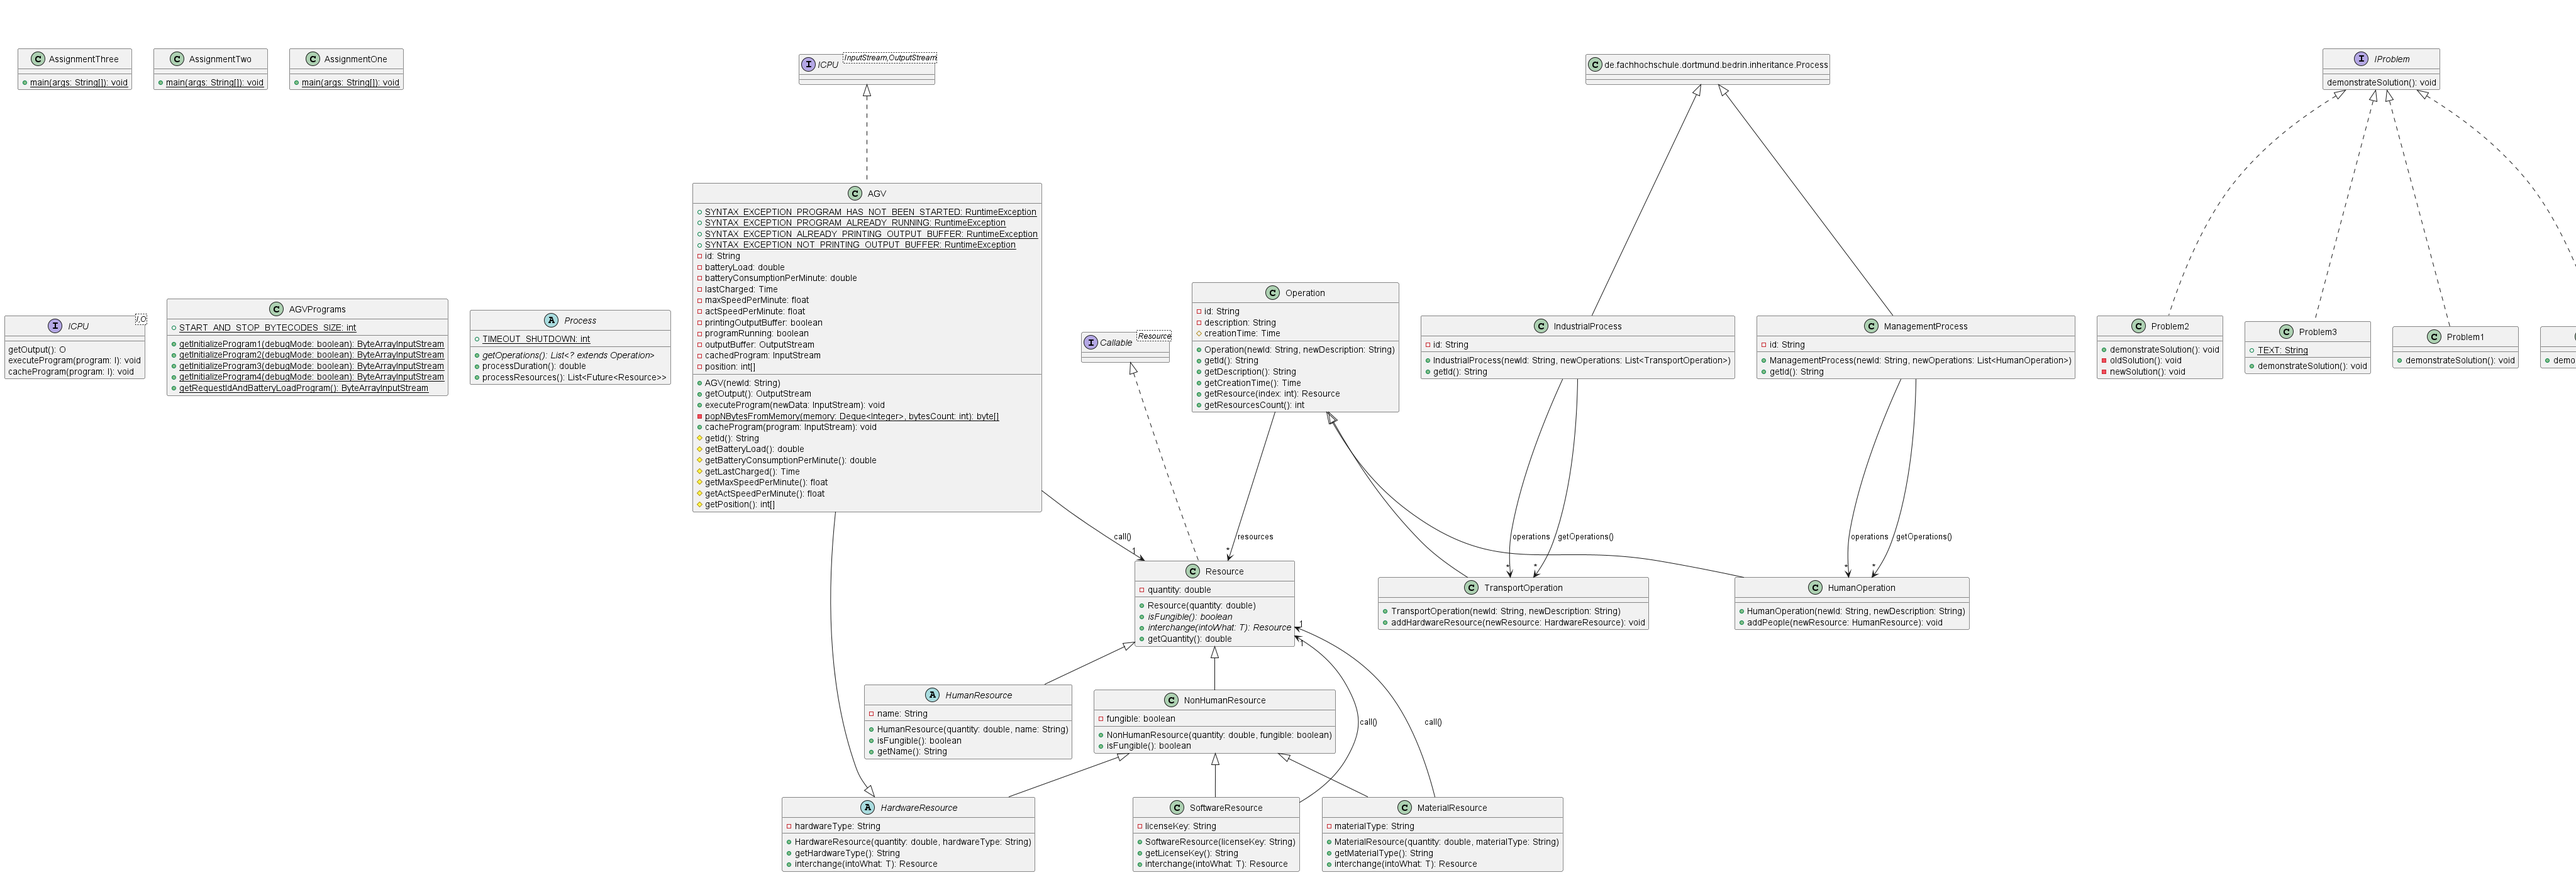
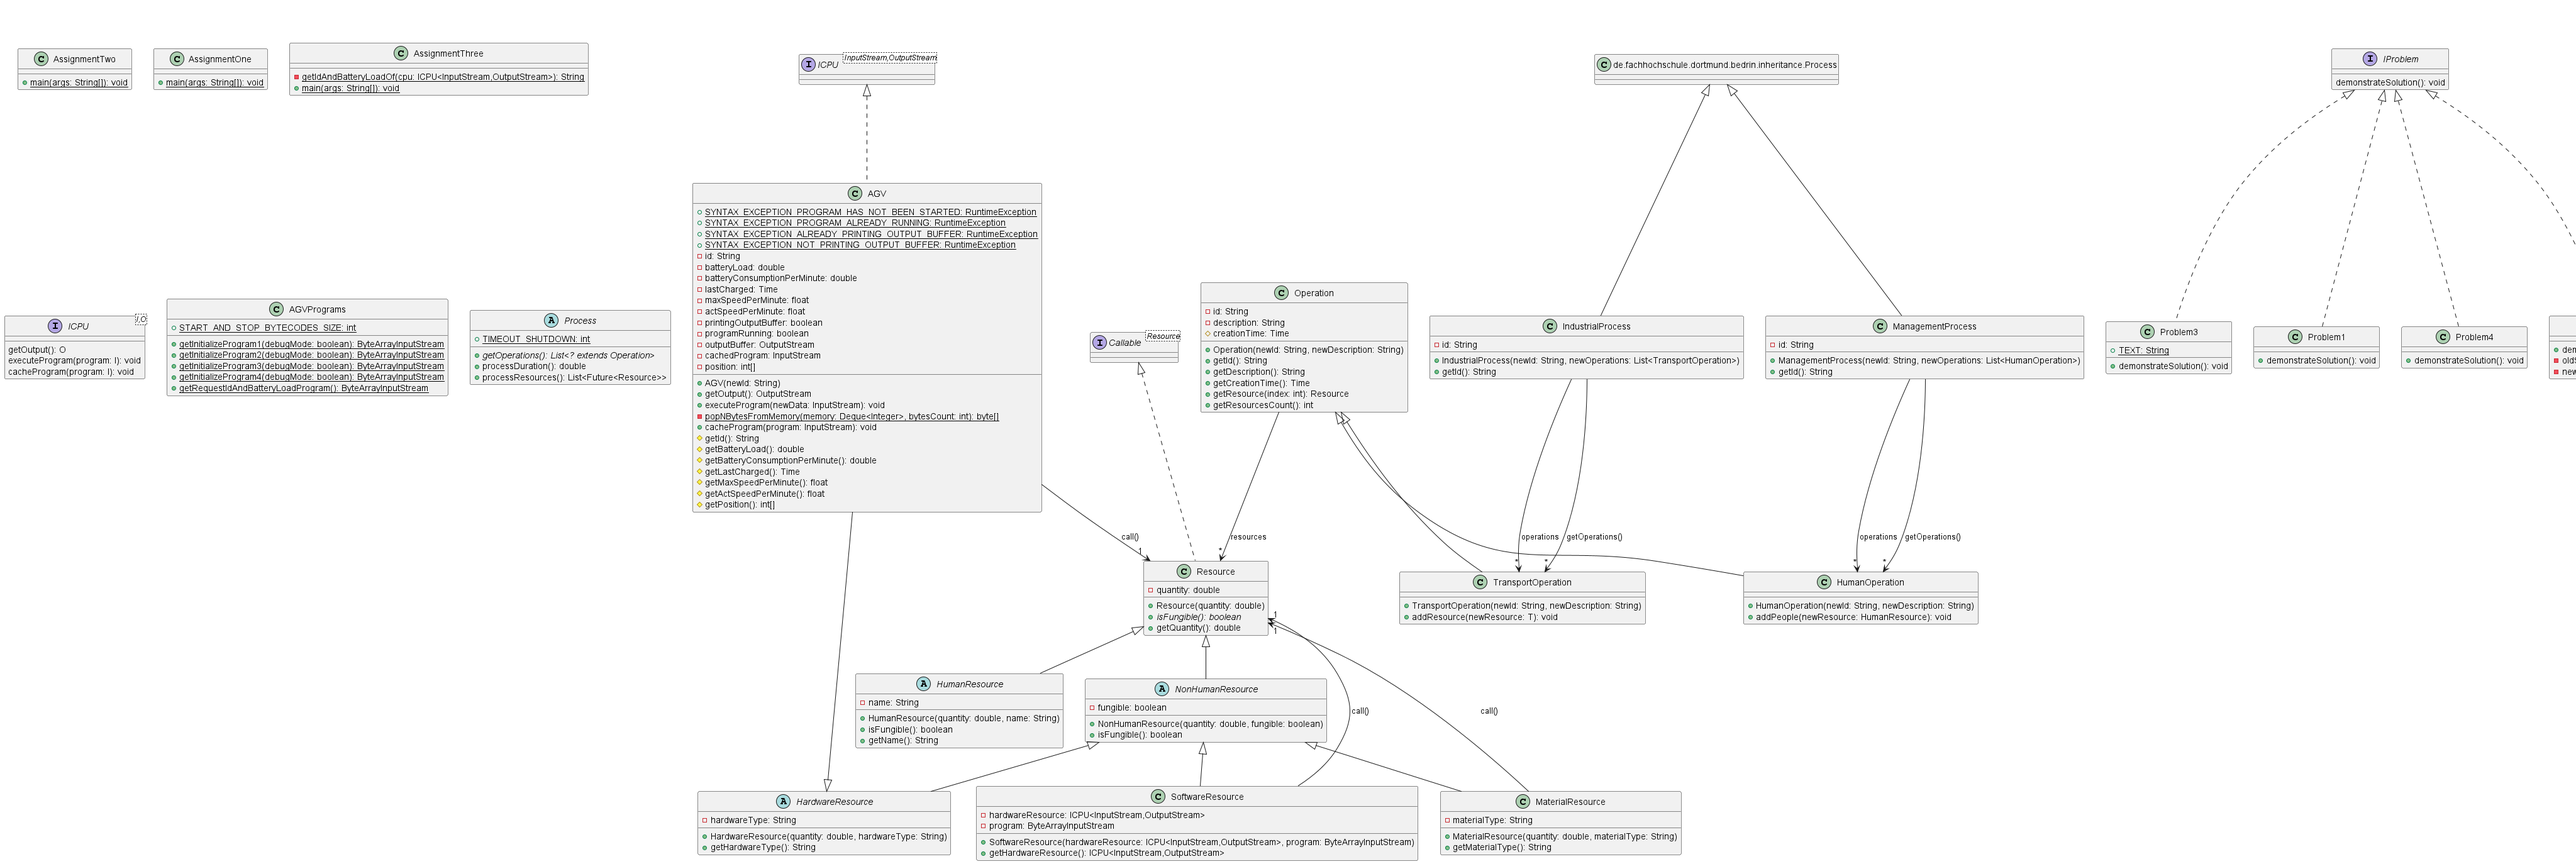
Adding usage to a SoftwareResource

diff --git a/bedrin/src/main/java/de/fachhochschule/dortmund/bedrin/AssignmentThree.java b/bedrin/src/main/java/de/fachhochschule/dortmund/bedrin/AssignmentThree.java
@@ -6,7 +6,6 @@ import java.io.OutputStream;
 import java.nio.ByteBuffer;
 import java.util.Arrays;
 import java.util.List;
-import java.util.concurrent.Future;
 
 import de.fachhochschule.dortmund.bedrin.facility.AGV;
 import de.fachhochschule.dortmund.bedrin.facility.IndustrialProcess;
@@ -14,52 +13,74 @@ import de.fachhochschule.dortmund.bedrin.facility.interfaces.ICPU;
 import de.fachhochschule.dortmund.bedrin.facility.utils.AGVPrograms;
 import de.fachhochschule.dortmund.bedrin.inheritance.Resource;
 import de.fachhochschule.dortmund.bedrin.inheritance.new_operations.TransportOperation;
+import de.fachhochschule.dortmund.bedrin.inheritance.new_resources.SoftwareResource;
 import de.fachhochschule.dortmund.bedrin.inheritance.new_resources.base.HardwareResource;
 
 public class AssignmentThree {
+	private static String getIdAndBatteryLoadOf(ICPU<InputStream, OutputStream> cpu) {
+		cpu.executeProgram(AGVPrograms.getRequestIdAndBatteryLoadProgram());
+		byte[] requestInfoProgramRawOutput = ((ByteArrayOutputStream) cpu.getOutput()).toByteArray();
+		ByteBuffer requestInfoProgramOutputBuffer = ByteBuffer.allocate(requestInfoProgramRawOutput.length);
+		requestInfoProgramOutputBuffer.put(requestInfoProgramRawOutput);
+		requestInfoProgramOutputBuffer = requestInfoProgramOutputBuffer.flip();
+
+		String agvId = Integer.valueOf(requestInfoProgramOutputBuffer.get(0)).toString();
+		double agvBatteryLoad = requestInfoProgramOutputBuffer.slice(1, 8).asDoubleBuffer().get();
+		return "ID: " + agvId + ", battery load - " + agvBatteryLoad + "%";
+	}
+
 	public static void main(String[] args) {
 		ICPU<InputStream, OutputStream> agv1 = new AGV("0");
-		agv1.cacheProgram(AGVPrograms.getInitializeProgram1(true));
+		SoftwareResource agv1InitProgram = new SoftwareResource(agv1, AGVPrograms.getInitializeProgram1(true));
 		ICPU<InputStream, OutputStream> agv2 = new AGV("1");
-		agv2.cacheProgram(AGVPrograms.getInitializeProgram2(true));
-		
+		SoftwareResource agv2InitProgram = new SoftwareResource(agv2, AGVPrograms.getInitializeProgram2(true));
+
 		ICPU<InputStream, OutputStream> agv3 = new AGV("2");
-		agv3.cacheProgram(AGVPrograms.getInitializeProgram3(true));
+		SoftwareResource agv3InitProgram = new SoftwareResource(agv3, AGVPrograms.getInitializeProgram3(true));
 		ICPU<InputStream, OutputStream> agv4 = new AGV("3");
-		agv4.cacheProgram(AGVPrograms.getInitializeProgram4(true));
-		
+		SoftwareResource agv4InitProgram = new SoftwareResource(agv4, AGVPrograms.getInitializeProgram4(true));
+
+		TransportOperation shipSoftwareOp = new TransportOperation("op0", "Zero operation");
+		shipSoftwareOp.addResource(agv1InitProgram);
+		shipSoftwareOp.addResource(agv2InitProgram);
+		shipSoftwareOp.addResource(agv3InitProgram);
+		shipSoftwareOp.addResource(agv4InitProgram);
+
 		TransportOperation op1 = new TransportOperation("op1", "First operation");
-		op1.addHardwareResource((HardwareResource) agv1);
-		op1.addHardwareResource((HardwareResource) agv2);
-		
+		op1.addResource((HardwareResource) agv1);
+		op1.addResource((HardwareResource) agv2);
+
 		TransportOperation op2 = new TransportOperation("op2", "Second operation");
-		op2.addHardwareResource((HardwareResource) agv3);
-		op2.addHardwareResource((HardwareResource) agv4);
-		
+		op2.addResource((HardwareResource) agv3);
+		op2.addResource((HardwareResource) agv4);
+
+		IndustrialProcess initProcess = new IndustrialProcess("initProc", List.of(shipSoftwareOp));
+		initProcess.processResources().stream().forEach(future -> {
+			try {
+				SoftwareResource soft = (SoftwareResource) future.get();
+				System.out.println("Resource (Software for Hardware ID: "
+						+ getIdAndBatteryLoadOf(soft.getHardwareResource()) + ") has been initialized.");
+			} catch (Exception e) {
+				e.printStackTrace();
+			}
+		});
+
 		IndustrialProcess process = new IndustrialProcess("proc1", Arrays.asList(op1, op2));
-		List<Future<Resource>> futures = process.processResources();
-		for (Future<Resource> future : futures) {
+
+		process.processResources().stream().forEach(future -> {
 			try {
 				Resource resource = future.get();
 				if (resource != null) {
 					@SuppressWarnings("unchecked")
-					ICPU<InputStream, OutputStream> cpu = (ICPU<InputStream, OutputStream>) resource;
-					cpu.executeProgram(AGVPrograms.getRequestIdAndBatteryLoadProgram());
-					byte[] requestInfoProgramRawOutput = ((ByteArrayOutputStream) cpu.getOutput())
-							.toByteArray();
-					ByteBuffer requestInfoProgramOutputBuffer = ByteBuffer.allocate(requestInfoProgramRawOutput.length);
-					requestInfoProgramOutputBuffer.put(requestInfoProgramRawOutput);
-					requestInfoProgramOutputBuffer = requestInfoProgramOutputBuffer.flip();
+					String cpuInfo = getIdAndBatteryLoadOf((ICPU<InputStream, OutputStream>) resource);
+					System.out.println("Resource (" + cpuInfo + "): has been waited for and processed.");
 
-					String agvId = Integer.valueOf(requestInfoProgramOutputBuffer.get(0)).toString();
-					double agvBatteryLoad = requestInfoProgramOutputBuffer.slice(1, 8).asDoubleBuffer().get();
-					System.out.println("Resource (ID: " + agvId + "): battery load - " + agvBatteryLoad + "% has been waited for and processed.");
 				} else {
 					System.err.println("Resource processing failed or returned null.");
 				}
 			} catch (Exception e) {
 				e.printStackTrace();
 			}
-		}
+		});
 	}
 }

diff --git a/bedrin/src/main/java/de/fachhochschule/dortmund/bedrin/inheritance/new_resources/SoftwareResource.java b/bedrin/src/main/java/de/fachhochschule/dortmund/bedrin/inheritance/new_resources/SoftwareResource.java
@@ -1,29 +1,32 @@
 package de.fachhochschule.dortmund.bedrin.inheritance.new_resources;
 
+import java.io.ByteArrayInputStream;
+import java.io.InputStream;
+import java.io.OutputStream;
+
+import de.fachhochschule.dortmund.bedrin.facility.interfaces.ICPU;
 import de.fachhochschule.dortmund.bedrin.inheritance.Resource;
 import de.fachhochschule.dortmund.bedrin.inheritance.new_resources.base.NonHumanResource;
 
 public class SoftwareResource extends NonHumanResource {
 
-	private String licenseKey;
+	private ICPU<InputStream, OutputStream> hardwareResource;
+	private ByteArrayInputStream program;
 
-	public SoftwareResource(String licenseKey) {
+	public SoftwareResource(ICPU<InputStream, OutputStream> hardwareResource, ByteArrayInputStream program) {
 		super(1d, false);
-		this.licenseKey = licenseKey;
-	}
-
-	public String getLicenseKey() {
-		return licenseKey;
+		this.hardwareResource = hardwareResource;
+		this.program = program;
 	}
 
 	@Override
-	public <T extends Resource> Resource interchange(T intoWhat) {
-		throw new UnsupportedOperationException("A software license cannot be interchanged.");
+	public Resource call() {
+		this.hardwareResource.cacheProgram(this.program);
+		return this;
 	}
-
-	@Override
-	public Resource call() throws Exception {
-		throw new UnsupportedOperationException("Not implemented yet.");
+	
+	public ICPU<InputStream, OutputStream> getHardwareResource() {
+		return hardwareResource;
 	}
 
 }

diff --git a/bedrin/src/main/java/de/fachhochschule/dortmund/bedrin/inheritance/new_operations/TransportOperation.java b/bedrin/src/main/java/de/fachhochschule/dortmund/bedrin/inheritance/new_operations/TransportOperation.java
@@ -1,7 +1,7 @@
 package de.fachhochschule.dortmund.bedrin.inheritance.new_operations;
 
 import de.fachhochschule.dortmund.bedrin.facility.abs.Operation;
-import de.fachhochschule.dortmund.bedrin.inheritance.new_resources.base.HardwareResource;
+import de.fachhochschule.dortmund.bedrin.inheritance.new_resources.base.NonHumanResource;
 
 public class TransportOperation extends Operation {
 	
@@ -9,8 +9,9 @@ public class TransportOperation extends Operation {
 		super(newId, newDescription);
 	}
 	
-	public void addHardwareResource(HardwareResource newResource) {
+	public <T extends NonHumanResource> void addResource(T newResource) {
 		this.resources.add(newResource);
 	}
+	
 
 }

diff --git a/bedrin/src/main/java/de/fachhochschule/dortmund/bedrin/AssignmentTwo.java b/bedrin/src/main/java/de/fachhochschule/dortmund/bedrin/AssignmentTwo.java
@@ -32,12 +32,12 @@ public class AssignmentTwo {
 		agv4.executeProgram(AGVPrograms.getInitializeProgram4(false));
 		
 		TransportOperation op1 = new TransportOperation("op1", "First operation");
-		op1.addHardwareResource(agv1);
-		op1.addHardwareResource(agv2);
+		op1.addResource(agv1);
+		op1.addResource(agv2);
 
 		TransportOperation op2 = new TransportOperation("op2", "Second operation");
-		op2.addHardwareResource(agv3);
-		op2.addHardwareResource(agv4);
+		op2.addResource(agv3);
+		op2.addResource(agv4);
 
 		// let's do some groupings
 		IndustrialProcess ip1 = new IndustrialProcess("ip1", Arrays.asList(op1, op2));

diff --git a/bedrin/src/main/java/de/fachhochschule/dortmund/bedrin/inheritance/new_resources/base/HardwareResource.java b/bedrin/src/main/java/de/fachhochschule/dortmund/bedrin/inheritance/new_resources/base/HardwareResource.java
@@ -1,7 +1,5 @@
 package de.fachhochschule.dortmund.bedrin.inheritance.new_resources.base;
 
-import de.fachhochschule.dortmund.bedrin.inheritance.Resource;
-
 public abstract class HardwareResource extends NonHumanResource {
 
 	private String hardwareType;
@@ -14,10 +12,4 @@ public abstract class HardwareResource extends NonHumanResource {
 	public String getHardwareType() {
 		return hardwareType;
 	}
-
-	@Override
-	public <T extends Resource> Resource interchange(T intoWhat) {
-		throw new UnsupportedOperationException("Cannot interchange hardware yet.");
-	}
-
 }

diff --git a/bedrin/src/main/java/de/fachhochschule/dortmund/bedrin/inheritance/new_resources/MaterialResource.java b/bedrin/src/main/java/de/fachhochschule/dortmund/bedrin/inheritance/new_resources/MaterialResource.java
@@ -17,11 +17,6 @@ public class MaterialResource extends NonHumanResource {
 	}
 
 	@Override
-	public <T extends Resource> Resource interchange(T intoWhat) {
-		throw new UnsupportedOperationException("Cannot interchange materials yet.");
-	}
-
-	@Override
 	public Resource call() throws Exception {
 		throw new UnsupportedOperationException("Not implemented yet.");
 	}

diff --git a/bedrin/src/main/java/de/fachhochschule/dortmund/bedrin/facility/AGV.java b/bedrin/src/main/java/de/fachhochschule/dortmund/bedrin/facility/AGV.java
@@ -50,6 +50,7 @@ public class AGV extends HardwareResource implements ICPU<InputStream, OutputStr
 			try {
 				this.outputBuffer.flush();
 				this.outputBuffer.close();
+				((ByteArrayOutputStream) this.outputBuffer).reset();
 			} catch (IOException e) {
 				e.printStackTrace();
 			}

diff --git a/bedrin/src/main/java/de/fachhochschule/dortmund/bedrin/inheritance/Resource.java b/bedrin/src/main/java/de/fachhochschule/dortmund/bedrin/inheritance/Resource.java
@@ -10,8 +10,6 @@ public abstract class Resource implements Callable<Resource> {
 	}
 
 	public abstract boolean isFungible();
-
-	public abstract <T extends Resource> Resource interchange(T intoWhat);
 	
 	public double getQuantity() {
 		return quantity;
